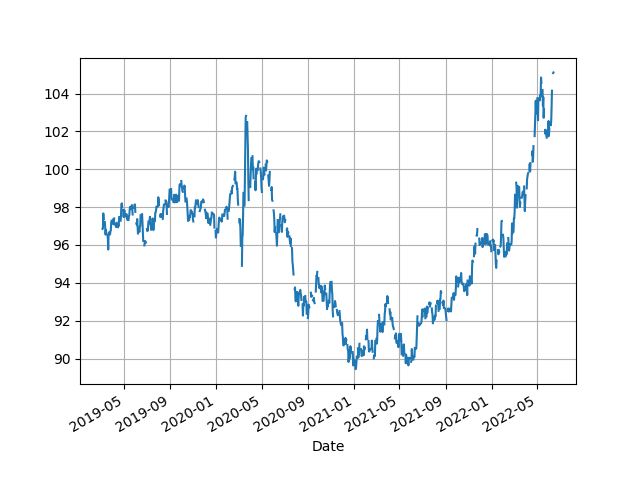
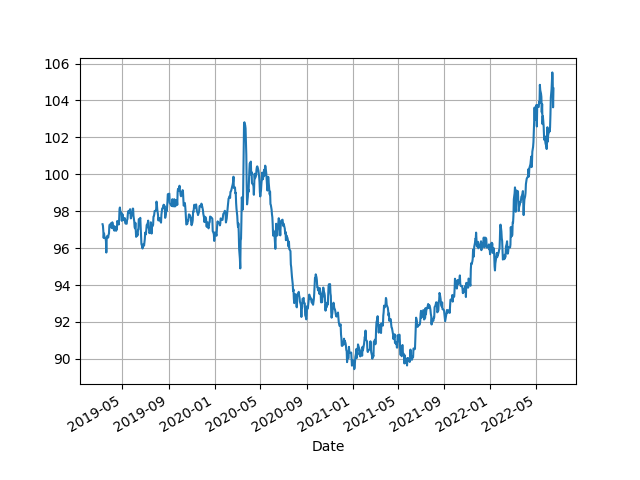
--

diff --git a/en/2019/05/stats.md b/en/2019/05/stats.md
@@ -471,7 +471,7 @@ url = base_fin_url + "/DX-Y.NYB?period1=" + str(start) + "&period2=" + str(end) 
 r = urllib2.urlopen(url).read()
 file = io.BytesIO(r)
 df = pd.read_csv(file,index_col='Date',parse_dates=True)['Adj Close']
-
+df = df.interpolate()
 print (df.tail(4))
 m,s = df.mean(),df.std()
 print (np.array([m-s,m+s]).T)
@@ -482,12 +482,12 @@ plt.savefig('dollar.png')
 
 ```text
 Date
-2022-06-10    104.150002
-2022-06-12           NaN
-2022-06-13    105.080002
-2022-06-14    105.114998
+2022-06-14    105.519997
+2022-06-15    105.160004
+2022-06-16    103.629997
+2022-06-17    104.650002
 Name: Adj Close, dtype: float64
-[ 80.81750067 111.16071316]
+[ 80.8216839  111.41399208]
 ```
 
 ![](dollar.png)
